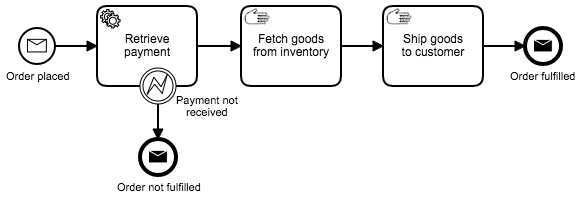
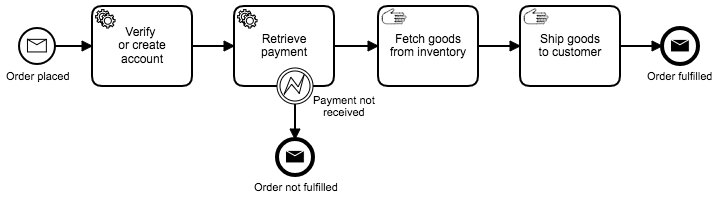
Create account via order process

Changed region(s): [[0.0, 0.0, 1.0, 0.9746]]

diff --git a/src/main/kotlin/com/plexiti/integration/AxonFlowIntegration.kt b/src/main/kotlin/com/plexiti/integration/AxonFlowIntegration.kt
@@ -55,27 +55,40 @@ abstract class AxonFlowIntegration {
     @SagaEventHandler(associationProperty = "sagaAssociationId")
     internal fun on(event: FlowCommandIssued) {
 
+        // Flow awaits completion of command
         if (event.flowAssociationId != null) {
 
             commandBus.dispatch(GenericCommandMessage(messageFactory.create(event.command, this)), object : CommandCallback<Any, Any> {
 
                 override fun onSuccess(commandMessage: CommandMessage<out Any>?, result: Any?) {
+
+                    // Flow awaits "completion" via defined events
                     if (event.success != null) {
+
                         successEvents = successEvents.apply { put(event.success, event.flowAssociationId) }
                         if (event.failure != null) {
                             failureEvents = failureEvents.apply { put(event.failure, event.flowAssociationId) }
                         }
+
+                    // Flow awaits completion via success or failure notification
                     } else {
+
                         eventBus.publish(GenericEventMessage(FlowCommandSucceeded(event.flowAssociationId)))
+
                     }
+
                 }
 
                 override fun onFailure(commandMessage: CommandMessage<out Any>?, cause: Throwable) {
+
+                    // Send back propagated exceptions as failure for both completion scenarios
                     eventBus.publish(GenericEventMessage(FlowCommandFailed(event.flowAssociationId, cause::class.java.canonicalName, cause.message)))
+
                 }
 
             })
 
+        // Flow fires command and moves on
         } else {
 
             commandBus.dispatch(GenericCommandMessage(messageFactory.create(event.command, this)))
@@ -113,22 +126,40 @@ abstract class AxonFlowIntegration {
 
         val eventName = event::class.qualifiedName!!
 
+        // Flow informed of successful command completion via event
         val eventMessage: Any = if (successEvents.contains(eventName)) {
+
             val flowAssociationId = successEvents.remove(eventName)!!
+            failureEvents.filter { it.value.equals(flowAssociationId) }.forEach {
+                failureEvents.remove(it.key)
+            }
             FlowCommandSucceeded(flowAssociationId, bindValuesToFlow())
+
+        // Flow informed of failed command completion via event
         } else if (failureEvents.contains(eventName)) {
+
             val flowAssociationId = failureEvents.remove(eventName)!!
+            successEvents.filter { it.value.equals(flowAssociationId) }.forEach {
+                successEvents.remove(it.key)
+            }
             FlowCommandFailed(flowAssociationId, eventName)
+
+        // Flow informed of external event trigger
         } else {
+
             FlowEventReceived(this.sagaAssociationId, eventName, bindValuesToFlow())
+
         }
 
         eventBus.publish(GenericEventMessage(eventMessage))
 
     }
 
-    protected abstract fun bindValuesToFlow(): Map<String, Any>
+    protected open fun bindValuesToFlow() = emptyMap<String, Any>()
+
 }
+
+// TODO refactor: signatures / parameter ordering
 
 data class FlowCommandIssued(val sagaAssociationId: String, val command: String, val flowAssociationId: String? = null, val success: String? = null, val failure: String? = null)
 data class FlowCommandSucceeded(val flowAssociationId: String, val variables: Map<String, Any?>? = null)

diff --git a/src/main/kotlin/com/plexiti/horizon/model/write/Accounts.kt b/src/main/kotlin/com/plexiti/horizon/model/write/Accounts.kt
@@ -2,11 +2,25 @@ package com.plexiti.horizon.model.write
 
 import com.plexiti.horizon.model.api.*
 import org.axonframework.commandhandling.CommandHandler
+import org.axonframework.commandhandling.gateway.CommandGateway
 import org.axonframework.commandhandling.model.AggregateLifecycle.apply
+import org.axonframework.commandhandling.model.AggregateNotFoundException
+import org.axonframework.commandhandling.model.Repository
 
 import org.axonframework.eventsourcing.EventSourcingHandler
 import org.axonframework.spring.stereotype.Aggregate
 import org.slf4j.LoggerFactory
+import org.springframework.beans.factory.annotation.Autowired
+import org.springframework.beans.factory.annotation.Qualifier
+import org.springframework.context.annotation.Configuration
+import org.springframework.stereotype.Component
+import org.axonframework.eventsourcing.CachingEventSourcingRepository
+import org.axonframework.eventsourcing.EventCountSnapshotTriggerDefinition
+import org.axonframework.eventsourcing.EventSourcingRepository
+import org.springframework.context.annotation.Bean
+import org.axonframework.eventsourcing.eventstore.EventStore
+
+
 
 
 /**
@@ -51,6 +65,39 @@ class Account(): AggregateIdentifiedBy<AccountId>() {
     @EventSourcingHandler
     protected fun on(event: AmountCredited) {
         this.balance += event.amount
+    }
+
+}
+
+@Component
+class AccountService(
+    private var accountRepository: Repository<Account>,
+    private val commandGateway: CommandGateway
+) {
+
+    private val logger = LoggerFactory.getLogger(AccountService::class.java)
+
+    @CommandHandler
+    fun handle(command: VerifyOrCreateAccount) {
+        logger.debug(command.toString())
+        try {
+            accountRepository.load(command.name)
+        } catch (exception: AggregateNotFoundException) {
+            commandGateway.sendAndWait<CreateAccount>(CreateAccount(command.name))
+        }
+    }
+
+}
+
+@Configuration
+private class Configuration {
+
+    @Autowired
+    private lateinit var eventStore: EventStore
+
+    @Bean
+    fun accountRepository(): Repository<Account> {
+        return EventSourcingRepository(Account::class.java, eventStore)
     }
 
 }

diff --git a/src/main/kotlin/com/plexiti/horizon/model/OrderSaga.kt b/src/main/kotlin/com/plexiti/horizon/model/OrderSaga.kt
@@ -57,11 +57,16 @@ class OrderSaga: Flow() {
         logger.debug(event.toString())
     }
 
-    override fun bindValuesToFlow() = emptyMap<String, Any>()
-
     @FlowCommandFactory
     fun retrievePayment(): RetrievePayment {
         val command = RetrievePayment(customer, orderId, orderSum)
+        logger.debug(command.toString())
+        return command
+    }
+
+    @FlowCommandFactory
+    fun verifyOrCreateAccount(): VerifyOrCreateAccount {
+        val command = VerifyOrCreateAccount(customer.id)
         logger.debug(command.toString())
         return command
     }

diff --git a/src/main/kotlin/com/plexiti/horizon/model/api/Accounts.kt b/src/main/kotlin/com/plexiti/horizon/model/api/Accounts.kt
@@ -7,6 +7,7 @@ import javax.persistence.Id
 class AccountId(id: String): Identifier<String>(id)
 
 data class CreateAccount(val name: String)
+data class VerifyOrCreateAccount(val name: String)
 data class AccountCreated(@TargetAggregateIdentifier val accountId: AccountId)
 
 data class WithdrawAmount(@TargetAggregateIdentifier val accountId: AccountId, val referenceId: String, val amount: Float)
